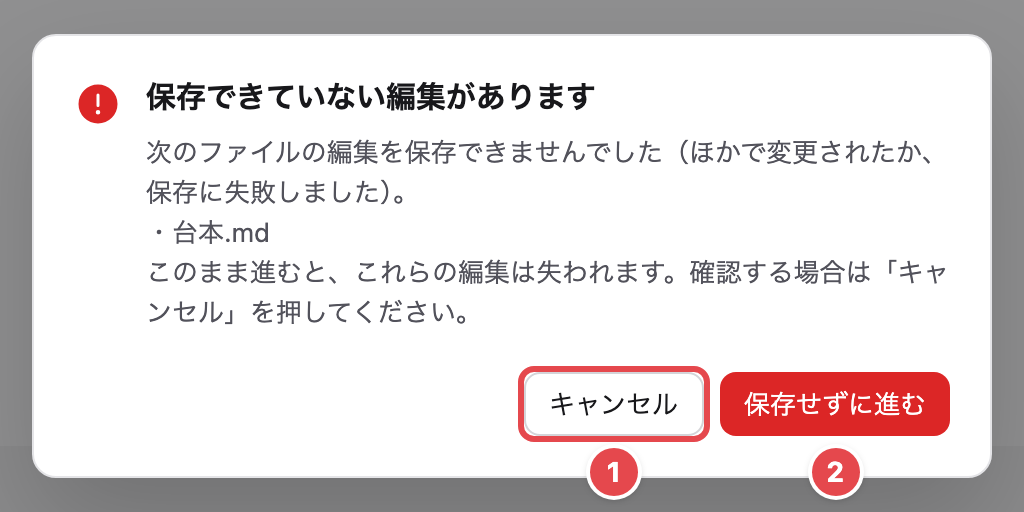
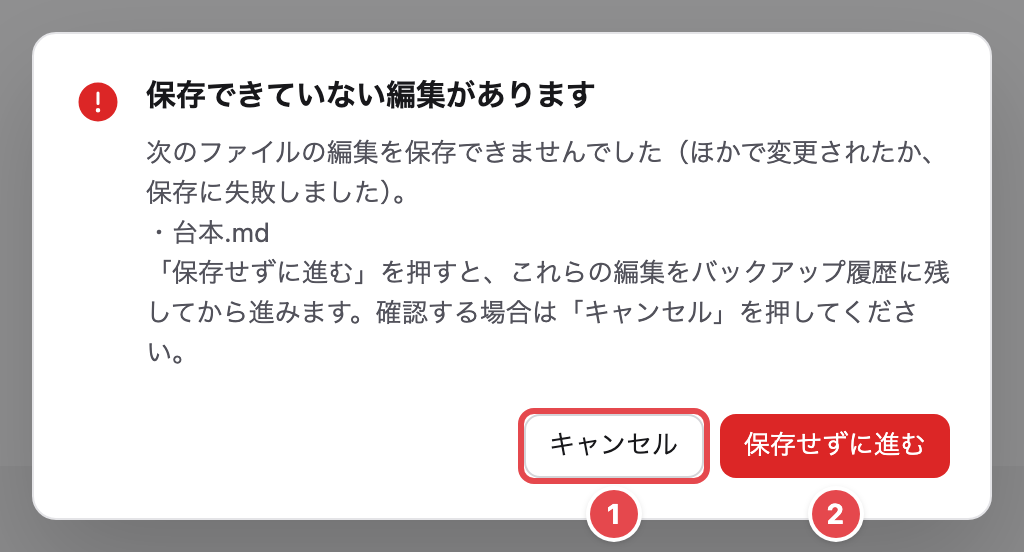
fix(client): 保存せずに進む keeps the unsaved edits in the backups first
On sign-out or closing the window, edits that could not be saved are kept
(editor:backupEdits, reason editor_left_unsaved — an optional, added argument)
before the app goes on. What cannot be kept either is named again with
「それでも進む」 / 「キャンセル」.

diff --git a/client/src/features/editor/hooks/useFileSaving.ts b/client/src/features/editor/hooks/useFileSaving.ts
@@ -1,7 +1,7 @@
 import { useCallback, useEffect, useRef, useState } from 'react'
 import { backupBeforeOverwrite, backupEdits, createDirectory, readFile, writeFile, saveRefusal } from '../api'
-import { canAutosave, decideCompareChoice, decideSave, isDirty } from '../../../../shared/editor-disk-state'
-import { registerUnsavedEditsSaver } from '../../../shared/lib/unsavedEdits'
+import { EDITOR_EDITS_REASON, EDITOR_LEFT_UNSAVED_REASON, canAutosave, decideCompareChoice, decideSave, isDirty } from '../../../../shared/editor-disk-state'
+import { registerUnsavedEditsKeeper, registerUnsavedEditsSaver } from '../../../shared/lib/unsavedEdits'
 import type { OpenFile } from './useOpenFiles'
 
 export interface ConfirmRequest {
@@ -161,7 +161,7 @@ export function useFileSaving({ activeFilePath, fileContents, fileContentsRef, u
     setError(null)
     try {
       if (!await stillShown(filePath, compared)) return false
-      const backup = rootPath ? await backupEdits(rootPath, filePath, edits) : null
+      const backup = rootPath ? await backupEdits(rootPath, filePath, edits, EDITOR_EDITS_REASON) : null
       if (!backup?.success || !backup.backupPath) {
         setError('あなたの編集をバックアップに残せなかったため、届いた版にしていません。あなたの編集はこのタブにそのまま残っています。')
         updateFile(filePath, f => ({ ...f, keepFailed: true }))
@@ -259,16 +259,31 @@ export function useFileSaving({ activeFilePath, fileContents, fileContentsRef, u
 
   // Leaving (sign-out, closing the window): write every tab with edits, not
   // only the shown one, without asking; what cannot be saved that way (changed
-  // on disk meanwhile, the write failed) is answered so the caller can ask.
-  useEffect(() => registerUnsavedEditsSaver(async () => {
-    if (autoSaveTimerRef.current) clearTimeout(autoSaveTimerRef.current)
-    const left: string[] = []
-    for (const [path, file] of fileContentsRef.current) {
-      if (file.isLoading || !isDirty(file)) continue
-      if (!await saveFile(path, file.content, { interactive: false })) left.push(path)
-    }
-    return left
-  }), [saveFile, fileContentsRef])
+  // on disk meanwhile, the write failed) is answered so the caller can ask. On
+  // ［保存せずに進む］ the keeper keeps those edits in the backups first and answers
+  // the paths kept (a keep that failed or was skipped is not).
+  useEffect(() => {
+    const unregisterSaver = registerUnsavedEditsSaver(async () => {
+      if (autoSaveTimerRef.current) clearTimeout(autoSaveTimerRef.current)
+      const left: string[] = []
+      for (const [path, file] of fileContentsRef.current) {
+        if (file.isLoading || !isDirty(file)) continue
+        if (!await saveFile(path, file.content, { interactive: false })) left.push(path)
+      }
+      return left
+    })
+    const unregisterKeeper = registerUnsavedEditsKeeper(async paths => {
+      const kept: string[] = []
+      if (!rootPath) return kept
+      for (const [path, file] of fileContentsRef.current) {
+        if (file.isLoading || !isDirty(file) || !paths.includes(path)) continue
+        const backup = await backupEdits(rootPath, path, file.content, EDITOR_LEFT_UNSAVED_REASON).catch(() => null)
+        if (backup?.success && backup.backupPath) kept.push(path)
+      }
+      return kept
+    })
+    return () => { unregisterSaver(); unregisterKeeper() }
+  }, [saveFile, rootPath, fileContentsRef])
 
   const answerConfirm = (ok: boolean) => { confirmRequest?.resolve(ok); setConfirmRequest(null) }
 

diff --git a/client/tests/ui/editor-panel.spec.ts b/client/tests/ui/editor-panel.spec.ts
@@ -18,6 +18,8 @@ const closeButton = (page: Page, path: string) => page.locator('div.group', { ha
 const writes = (page: Page) => page.evaluate(() => (window as unknown as { __acbWrites: Array<[string, string]> }).__acbWrites)
 /** What automatic sync reads before it runs (src/shared/lib/unsavedEdits.ts). */
 const unsavedForSync = (page: Page) => page.evaluate(() => (window as unknown as { __acbHasUnsavedEdits: () => boolean }).__acbHasUnsavedEdits())
+type Kept = { reason: string; path: string; content: string | undefined }
+const backups = (page: Page) => page.evaluate(() => (window as unknown as { __acbBackups: Kept[] }).__acbBackups)
 const pinned = (page: Page) => page.evaluate(() => (window as unknown as { __acbPinned: string[] }).__acbPinned)
 /** A shortcut as macOS reports it (⌘⇧V arrives as key 'v'), sent to the focused element. */
 const shortcut = (page: Page, init: { key: string; shiftKey?: boolean }) => page.evaluate((i) => {
@@ -337,5 +339,32 @@ test('a tab that cannot be saved is named before the window closes; キャンセ
 
   await requestClose(page)
   await page.getByRole('button', { name: '保存せずに進む' }).click()
+  await expect.poll(() => closeAnswers(page)).toEqual(['ack', 'stay', 'ack', 'close'])
+  // 保存せずに進む kept the edits in the backups before the window went.
+  expect(await backups(page)).toEqual([{ reason: 'editor_left_unsaved', path: SCRIPT, content: '# 台本\n\n第12回の構成案です。\n追記' }])
+})
+
+test('保存せずに進む when the edits cannot be kept either: named again, 「それでも進む」 or キャンセル', async ({ page }) => {
+  await page.clock.install({ time: new Date('2026-01-01T00:00:00') })
+  await open(page)
+  await pauseClock(page)
+  await page.evaluate(p => {
+    const w = window as unknown as { __acbFailWrites: Set<string>; __acbFailBackups: { on: boolean } }
+    w.__acbFailWrites.add(p)
+    w.__acbFailBackups.on = true
+  }, SCRIPT)
+  await typeAtEnd(page, '\n追記')
+  await requestClose(page)
+  await page.getByRole('button', { name: '保存せずに進む' }).click()
+  await expect(page.getByRole('heading', { name: 'バックアップにも残せなかった編集があります' })).toBeVisible()
+  await expect(page.getByText('・台本.md')).toBeVisible()
+  await page.keyboard.press('Enter') // Enter does not go on
+  await page.getByRole('button', { name: 'キャンセル' }).click()
+  await expect.poll(() => closeAnswers(page)).toEqual(['ack', 'stay'])
+  await expect(editor(page)).toContainText('追記')
+
+  await requestClose(page)
+  await page.getByRole('button', { name: '保存せずに進む' }).click()
+  await page.getByRole('button', { name: 'それでも進む' }).click()
   await expect.poll(() => closeAnswers(page)).toEqual(['ack', 'stay', 'ack', 'close'])
 })

diff --git a/client/src/features/editor/leaving.ts b/client/src/features/editor/leaving.ts
@@ -1,5 +1,6 @@
 // What the member is asked when leaving (sign-out, closing the window) while
-// some tabs could not be saved. Pure.
+// some tabs could not be saved, and again when their edits could not even be
+// kept in the backups. Pure.
 
 const SHOWN = 5
 
@@ -9,17 +10,34 @@ export interface LeaveQuestion {
   confirmText: string
 }
 
-/** `paths`: the tabs still unsaved after saving everything that could be saved. */
-export function leaveQuestion(paths: readonly string[]): LeaveQuestion {
+function fileNames(paths: readonly string[]): string[] {
   const names = paths.slice(0, SHOWN).map(p => `・${p.slice(p.replace(/\\/g, '/').lastIndexOf('/') + 1)}`)
   if (paths.length > SHOWN) names.push(`ほか ${paths.length - SHOWN} 件`)
+  return names
+}
+
+/** `paths`: the tabs still unsaved after saving everything that could be saved. */
+export function leaveQuestion(paths: readonly string[]): LeaveQuestion {
   return {
     title: '保存できていない編集があります',
     message: [
       '次のファイルの編集を保存できませんでした（ほかで変更されたか、保存に失敗しました）。',
-      ...names,
-      'このまま進むと、これらの編集は失われます。確認する場合は「キャンセル」を押してください。',
+      ...fileNames(paths),
+      '「保存せずに進む」を押すと、これらの編集をバックアップ履歴に残してから進みます。確認する場合は「キャンセル」を押してください。',
     ].join('\n'),
     confirmText: '保存せずに進む',
+  }
+}
+
+/** `paths`: the tabs whose edits could not be kept in the backups either. */
+export function notKeptQuestion(paths: readonly string[]): LeaveQuestion {
+  return {
+    title: 'バックアップにも残せなかった編集があります',
+    message: [
+      '次のファイルの編集は、バックアップ履歴にも残せませんでした。',
+      ...fileNames(paths),
+      'このまま進むと、これらの編集は失われます。確認する場合は「キャンセル」を押してください。',
+    ].join('\n'),
+    confirmText: 'それでも進む',
   }
 }

diff --git a/client/electron/features/fs/ipc.ts b/client/electron/features/fs/ipc.ts
@@ -12,6 +12,7 @@ import type { DirectoryTreeNode, FileOpResult } from '../../../shared/ipc-contra
 import type { FileChange } from '../../company-watcher'
 import type { IpcRegistrar } from '../../ipc/registrar'
 import { keepCurrentVersion, keepGivenVersion } from '../backups/keep-current'
+import { EDITOR_EDITS_REASON, EDITOR_EDITS_REASONS } from '../../../shared/editor-disk-state'
 import type { DesktopShell, PathGuard, WindowPort } from '../ports'
 import { NAME_TAKEN_MESSAGE } from '../../../shared/file-names'
 import { isAtomicSaveRename, nameTaken, notDownloadedRefusal } from '../../file-guards'
@@ -187,14 +188,17 @@ export function registerFsIpc(ipc: IpcRegistrar, deps: FsDeps): FsFeature {
     }
   })
 
-  // Before the editor drops a tab's unsaved edits for the version that arrived
-  // (［届いた版を採用］): keep the edits, which were never on disk, as a version of the file.
-  ipc.handle('editor:backupEdits', async (_, rootPath: string, filePath: string, content: string) => {
+  // Before the editor drops a tab's unsaved edits — for the version that arrived
+  // (［届いた版を採用］) or on leaving (［保存せずに進む］): keep the edits, which were never on
+  // disk, as a version of the file.
+  ipc.handle('editor:backupEdits', async (_, rootPath: string, filePath: string, content: string, reason?: unknown) => {
     try {
       const root = paths.validate(rootPath)
       const safePath = paths.validate(filePath)
       if (typeof content !== 'string') return { success: false, error: 'No text to keep' }
-      return await keepGivenVersion(paths, root, safePath, Buffer.from(content, 'utf-8'), 'editor_edits')
+      const why = reason === undefined ? EDITOR_EDITS_REASON : EDITOR_EDITS_REASONS.find(r => r === reason)
+      if (!why) return { success: false, error: 'Unknown reason' }
+      return await keepGivenVersion(paths, root, safePath, Buffer.from(content, 'utf-8'), why)
     } catch (error) {
       console.error('[editor] backup of the edits failed:', error)
       return { success: false, error: error instanceof Error ? error.message : 'Unknown error' }

diff --git a/client/src/features/editor/hooks/useSaveBeforeLeaving.ts b/client/src/features/editor/hooks/useSaveBeforeLeaving.ts
@@ -1,13 +1,15 @@
 import { useCallback, useEffect, useRef, useState } from 'react'
-import { saveUnsavedEdits } from '../../../shared/lib/unsavedEdits'
+import { keepUnsavedEdits, saveUnsavedEdits } from '../../../shared/lib/unsavedEdits'
 import { answerWindowClose, onWindowCloseRequested } from '../../../shared/ipc/window-close'
-import { leaveQuestion, type LeaveQuestion } from '../leaving'
+import { leaveQuestion, notKeptQuestion, type LeaveQuestion } from '../leaving'
 
 /**
  * Leaving the company screen (sign-out) or closing the window: every editor
  * first saves all its tabs with edits, not only the shown one; what could not
  * be saved is named and the member decides (`question`, answered with
- * `answer`). `confirmLeave` resolves true when it is fine to go on.
+ * `answer`). ［保存せずに進む］ keeps those edits in the backups first; what
+ * cannot be kept either is named again (［それでも進む］). `confirmLeave`
+ * resolves true when it is fine to go on.
  */
 export function useSaveBeforeLeaving({ guardWindowClose = false }: { guardWindowClose?: boolean } = {}) {
   const [pending, setPending] = useState<{ question: LeaveQuestion; resolve: (ok: boolean) => void } | null>(null)
@@ -17,9 +19,13 @@ export function useSaveBeforeLeaving({ guardWindowClose = false }: { guardWindow
     // A second request (another close while asking) waits for the same answer.
     busy.current ??= (async () => {
       try {
+        const ask = (question: LeaveQuestion) => new Promise<boolean>(resolve => setPending({ question, resolve }))
         const left = await saveUnsavedEdits()
         if (left.length === 0) return true
-        return await new Promise<boolean>(resolve => setPending({ question: leaveQuestion(left), resolve }))
+        if (!await ask(leaveQuestion(left))) return false
+        const notKept = await keepUnsavedEdits(left)
+        if (notKept.length === 0) return true
+        return await ask(notKeptQuestion(notKept))
       } finally {
         busy.current = null
       }

diff --git a/client/shared/ipc-contract.ts b/client/shared/ipc-contract.ts
@@ -30,6 +30,7 @@ import type { VoicePromptSettings } from './voice-prompt'
 import type { ChatHistoryChange, ChatMetadataPatch, ChatSaveReceipt, ChatSession, ChatSessionSummary } from './chat-history'
 import type { PermissionMode } from './permission-mode'
 import type { BrowserOperatorToolset } from './browser-operator-toolsets'
+import type { EditorEditsReason } from './editor-disk-state'
 import type { WriteAccess } from './write-access'
 import type { EnvVarStatus } from './env-file'
 import type { AutoSyncMode, AutoSyncRendererState, AutoSyncResult } from './auto-sync'
@@ -564,8 +565,11 @@ export interface IpcInvokeChannels {
   'fs:writeFile': { args: [path: string, content: string]; result: boolean }
   'fs:createFile': { args: [path: string, content: string]; result: FileOpResult }
   'editor:backupBeforeOverwrite': { args: [rootPath: string, filePath: string]; result: EditorBackupResult }
-  /** Keep a tab's unsaved edits of `filePath` (the text given) before ［届いた版を採用］ drops them. */
-  'editor:backupEdits': { args: [rootPath: string, filePath: string, content: string]; result: EditorBackupResult }
+  /**
+   * Keep a tab's unsaved edits of `filePath` (the text given) before they are dropped:
+   * ［届いた版を採用］ (`editor_edits`, also when `reason` is left out) or ［保存せずに進む］ (`editor_left_unsaved`).
+   */
+  'editor:backupEdits': { args: [rootPath: string, filePath: string, content: string, reason?: EditorEditsReason]; result: EditorBackupResult }
   'fs:createDirectory': { args: [path: string]; result: boolean }
   'fs:exists': { args: [path: string]; result: boolean }
   'fs:delete': { args: [path: string]; result: FileOpResult }

diff --git a/client/shared/editor-disk-state.ts b/client/shared/editor-disk-state.ts
@@ -122,14 +122,19 @@ export function canAutosave(file: EditorFileState): boolean {
 export const EDITOR_OVERWRITE_REASON = 'editor_overwrite' satisfies BackupReason
 /** The tab's edits, kept before ［届いた版を採用］ replaces them (they were never on disk). */
 export const EDITOR_EDITS_REASON = 'editor_edits' satisfies BackupReason
+/** A tab's edits that could not be saved, kept before ［保存せずに進む］ leaves them (sign-out, closing the window). */
+export const EDITOR_LEFT_UNSAVED_REASON = 'editor_left_unsaved' satisfies BackupReason
+/** Why the editor keeps a tab's edits (never on disk) in the backups. */
+export type EditorEditsReason = typeof EDITOR_EDITS_REASON | typeof EDITOR_LEFT_UNSAVED_REASON
+export const EDITOR_EDITS_REASONS: readonly EditorEditsReason[] = [EDITOR_EDITS_REASON, EDITOR_LEFT_UNSAVED_REASON]
 
 /**
  * Why the app kept a version of a file before replacing it: the editor
  * overwrote a changed file, the editor dropped the tab's edits for the version
- * that arrived, a backup was restored over it, or 「元に戻す」 in the sync
+ * that arrived or left them unsaved (［保存せずに進む］), a backup was restored over it, or 「元に戻す」 in the sync
  * preview undid it. Also the backup folder's suffix.
  */
-export type KeepCurrentReason = Extract<BackupReason, typeof EDITOR_OVERWRITE_REASON | typeof EDITOR_EDITS_REASON | 'before_restore' | 'before_revert'>
+export type KeepCurrentReason = Extract<BackupReason, typeof EDITOR_OVERWRITE_REASON | EditorEditsReason | 'before_restore' | 'before_revert'>
 
 export interface EditorOverwriteBackupMetadata {
   timestamp: string

diff --git a/client/src/features/editor/api.ts b/client/src/features/editor/api.ts
@@ -2,6 +2,7 @@
 // contract (src/shared/ipc/electron-api.ts), one per capability. Every function
 // takes its port as the last parameter, defaulting to window.electronAPI.
 import type { ElectronPort } from '../../shared/ipc/electron-api'
+import type { EditorEditsReason } from '../../../shared/editor-disk-state'
 
 /** Reading an open file on this computer: its text, its bytes (PDF), whether it still exists. */
 export type EditorReads = ElectronPort<'readFile' | 'readFileBinary' | 'exists'>
@@ -89,9 +90,12 @@ export function backupBeforeOverwrite(rootPath: string, filePath: string, writes
   return writes.backupBeforeOverwrite(rootPath, filePath)
 }
 
-/** Keeps the tab's unsaved edits (.backups/<ts>_editor_edits/, or the private backups). */
-export function backupEdits(rootPath: string, filePath: string, content: string, writes: EditorWrites = window.electronAPI) {
-  return writes.backupEdits(rootPath, filePath, content)
+/**
+ * Keeps the tab's unsaved edits (.backups/<ts>_<reason>/, or the private backups):
+ * before ［届いた版を採用］ (`editor_edits`) or ［保存せずに進む］ (`editor_left_unsaved`).
+ */
+export function backupEdits(rootPath: string, filePath: string, content: string, reason: EditorEditsReason, writes: EditorWrites = window.electronAPI) {
+  return writes.backupEdits(rootPath, filePath, content, reason)
 }
 
 /** Whether a record a tidied tab points to can still be read (「片づけたタブ」 marks it 「見つかりません」). */

diff --git a/client/electron/preload.ts b/client/electron/preload.ts
@@ -12,6 +12,7 @@ import type { VoiceInputAPI } from '../shared/voice-input'
 import type { CalendarTodayOptions } from '../shared/calendar'
 import type { ChatMetadataPatch, ChatSaveReceipt, ChatSession } from '../shared/chat-history'
 import type { HandoffCompletion } from '../shared/handoff'
+import type { EditorEditsReason } from '../shared/editor-disk-state'
 import type { AgentInteractionResponse } from '../shared/agent-interaction'
 import type { PermissionMode } from '../shared/permission-mode'
 import type { BrowserOperatorToolset } from '../shared/browser-operator-toolsets'
@@ -119,8 +120,8 @@ const api: ElectronAPI = {
   createFile: (path: string, content: string) => invoke('fs:createFile', path, content),
   backupBeforeOverwrite: (rootPath: string, filePath: string) =>
     invoke('editor:backupBeforeOverwrite', rootPath, filePath),
-  backupEdits: (rootPath: string, filePath: string, content: string) =>
-    invoke('editor:backupEdits', rootPath, filePath, content),
+  backupEdits: (rootPath: string, filePath: string, content: string, reason?: EditorEditsReason) =>
+    invoke('editor:backupEdits', rootPath, filePath, content, reason),
   createDirectory: (path: string) => invoke('fs:createDirectory', path),
   exists: (path: string) => invoke('fs:exists', path),
 

diff --git a/client/src/shared/lib/unsavedEdits.ts b/client/src/shared/lib/unsavedEdits.ts
@@ -44,3 +44,29 @@ export async function saveUnsavedEdits(): Promise<string[]> {
   }
   return [...new Set(left)]
 }
+
+// ［保存せずに進む］: before leaving, every editor keeps the edits of the tabs it
+// could not save in the backups (the member's work is never just dropped). A
+// keeper answers the paths it kept; a path no keeper kept (none holds it, its
+// keep failed, a keeper threw) is answered as not kept, so the caller can say so.
+type UnsavedEditsKeeper = (paths: readonly string[]) => Promise<string[]>
+const keepers = new Set<UnsavedEditsKeeper>()
+
+/** Register an editor's keeper while it is mounted; returns the unregister function. */
+export function registerUnsavedEditsKeeper(keeper: UnsavedEditsKeeper): () => void {
+  keepers.add(keeper)
+  return () => { keepers.delete(keeper) }
+}
+
+/** Keep the edits of `paths` in the backups; resolves to the paths whose edits could not be kept. */
+export async function keepUnsavedEdits(paths: readonly string[]): Promise<string[]> {
+  const kept = new Set<string>()
+  for (const keeper of [...keepers]) {
+    try {
+      for (const p of await keeper(paths)) kept.add(p)
+    } catch {
+      // Counts as not kept: its paths stay in the answer.
+    }
+  }
+  return paths.filter(p => !kept.has(p))
+}

diff --git a/client/tests/ipc-fs.test.ts b/client/tests/ipc-fs.test.ts
@@ -446,6 +446,11 @@ test('editor:backupEdits: the tab\'s edits (never on disk) kept as a version of 
   // A file already deleted on disk: its edits are still kept.
   const gone = await h.invoke<Backup>('editor:backupEdits', company, path.join(company, '営業', 'gone.md'), '消える前の編集')
   assert.equal(fs.readFileSync(path.join(gone.backupPath!, '営業', 'gone.md'), 'utf-8'), '消える前の編集')
+  // ［保存せずに進む］ names its own reason (the backup list's label); an unknown reason keeps nothing.
+  const left = await h.invoke<Backup>('editor:backupEdits', company, path.join(company, '営業', '提案書.md'), '進む前の編集', 'editor_left_unsaved')
+  assert.match(path.relative(company, left.backupPath!), /_editor_left_unsaved$/)
+  assert.equal(fs.readFileSync(path.join(left.backupPath!, '営業', '提案書.md'), 'utf-8'), '進む前の編集')
+  assert.deepEqual(await h.invoke('editor:backupEdits', company, path.join(company, '営業', '提案書.md'), 'x', 'before_restore'), { success: false, error: 'Unknown reason' })
 })
 
 // Fake values only: what the test proves is that none of them reach the renderer.

diff --git a/client/tests/editor-tabs-ui.tsx b/client/tests/editor-tabs-ui.tsx
@@ -125,10 +125,10 @@ Object.assign(window, {
       ;(window as unknown as { __acbDuringBackup?: () => void }).__acbDuringBackup?.()
       return { success: true, backupPath: `${ROOT}/.backups/2026-10-23T01-02-03-456_editor_overwrite` }
     },
-    backupEdits: async (_root: string, p: string, content: string) => {
+    backupEdits: async (_root: string, p: string, content: string, reason = 'editor_edits') => {
       if (failBackups.on) return { success: false, error: 'EACCES' }
       if (failBackups.skip) return { success: true, skipped: 'internal' }
-      backups.push({ reason: 'editor_edits', path: p, content })
+      backups.push({ reason, path: p, content })
       // What happens on "disk" while the edits are being kept (a spec sets it).
       ;(window as unknown as { __acbDuringBackup?: () => void }).__acbDuringBackup?.()
       return { success: true, backupPath: `${ROOT}/.backups/2026-10-23T01-02-03-456_editor_edits` }
